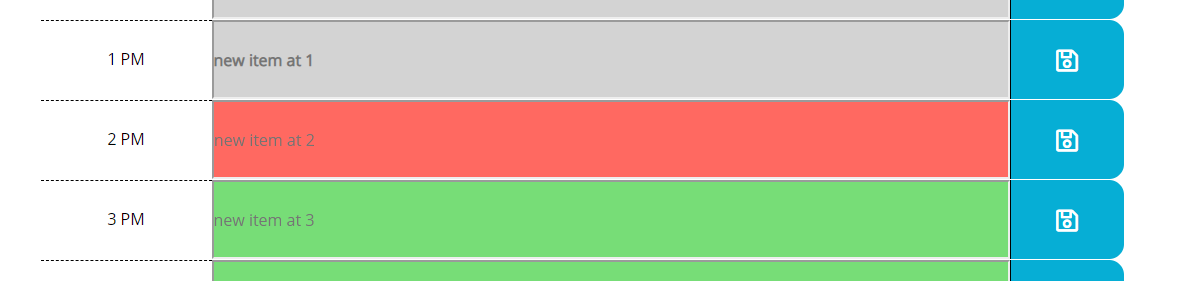
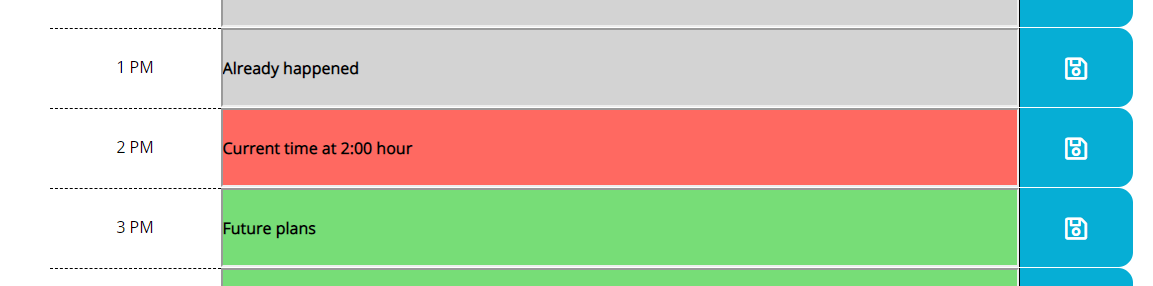
Updated text color to black, removed placeholder text, updated README.

Changed region(s): [[0.0312, 0.0, 0.9991, 1.0]]

diff --git a/script.js b/script.js
@@ -11,57 +11,57 @@ currentDayEl.html(currentFullDate);
 var timeChunks = [
     {
         hourBlock: 7,
-        schedItem: "new item at 7",
+        schedItem: "",
         milTime: 7
     },
     {
         hourBlock: 8,
-        schedItem: "new item at 8",
+        schedItem: "",
         milTime: 8
     },
     {
         hourBlock: 9,
-        schedItem: "new item at 9",
+        schedItem: "",
         milTime: 9
     },
     {
         hourBlock: 10,
-        schedItem: "new item at 10",
+        schedItem: "",
         milTime: 10
     },
     {
         hourBlock: 11,
-        schedItem: "new item at 11",
+        schedItem: "",
         milTime: 11
     },
     {
         hourBlock: 12,
-        schedItem: "new item at 12",
+        schedItem: "",
         milTime: 12
     },
     {
         hourBlock: 1,
-        schedItem: "new item at 1",
+        schedItem: "",
         milTime: 13
     },
     {
         hourBlock: 2,
-        schedItem: "new item at 2",
+        schedItem: "",
         milTime: 14
     },
     {
         hourBlock: 3,
-        schedItem: "new item at 3",
+        schedItem: "",
         milTime: 15
     },
     {
         hourBlock: 4,
-        schedItem: "new item at 4",
+        schedItem: "",
         milTime: 16
     },
     {
         hourBlock: 5,
-        schedItem: "new item at 5",
+        schedItem: "",
         milTime: 17
     },
 ]

diff --git a/style.css b/style.css
@@ -47,18 +47,20 @@ textarea{
 
 .past {
   background-color: #d3d3d3;
-  color: white;
+  color: black;
   font-weight: bold;
 }
 
 .present {
   background-color: #ff6961;
-  color: white;
+  color: black;
+  font-weight: bold;
 }
 
 .future {
   background-color: #77dd77;
-  color: white;
+  color: black;
+  font-weight: bold;
 }
 
 .saveBtn {

diff --git a/README.md b/README.md
@@ -24,7 +24,14 @@ The rows are also color-coordinated to inform the user if the hour corresponding
 
 Each time the page is loaded the previous scheduled items still appear since they are pulled from local storage. But any item can be cleared or saved over.
 
-![New lunch appointment](/Demo_images/appointment_lunch.png)
+Empty row:
+![Emtpy row](/Demo_images/empty_row.png)
+New appointment:
+![New Appointment](/Demo_images/new_appointment.png)
+Click save:
+![Save Appointment](/Demo_images/save_appointment.png)
+Persists when refreshed:
+![Appointment still there](/Demo_images/new_appointment.png)
 
 ## Acknowledgement
 
